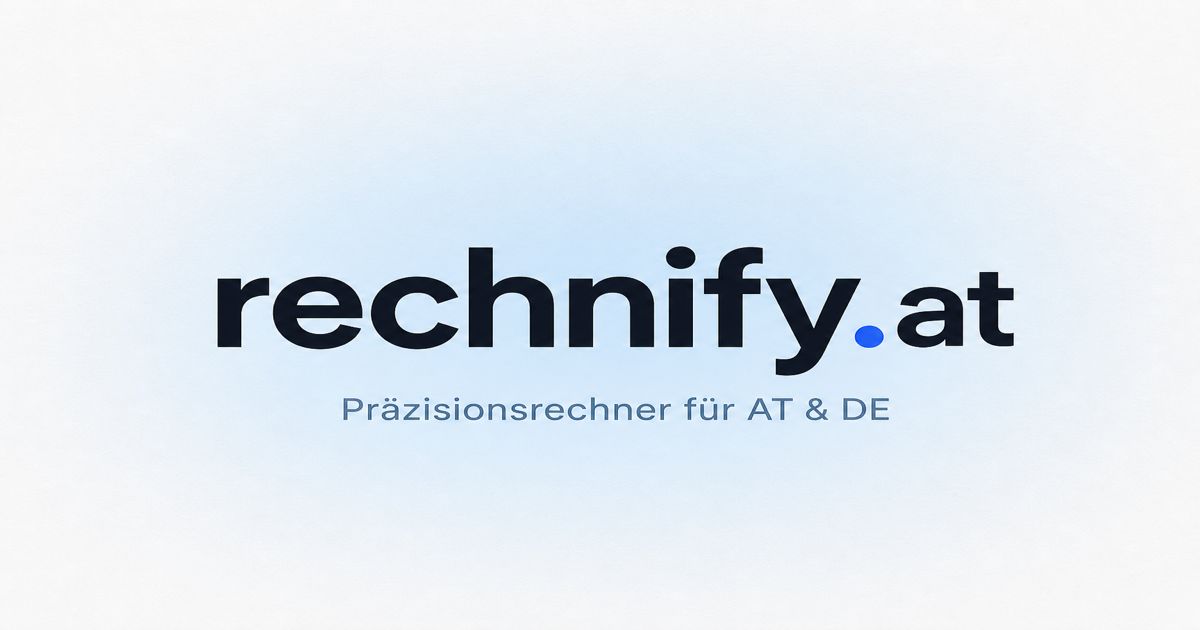
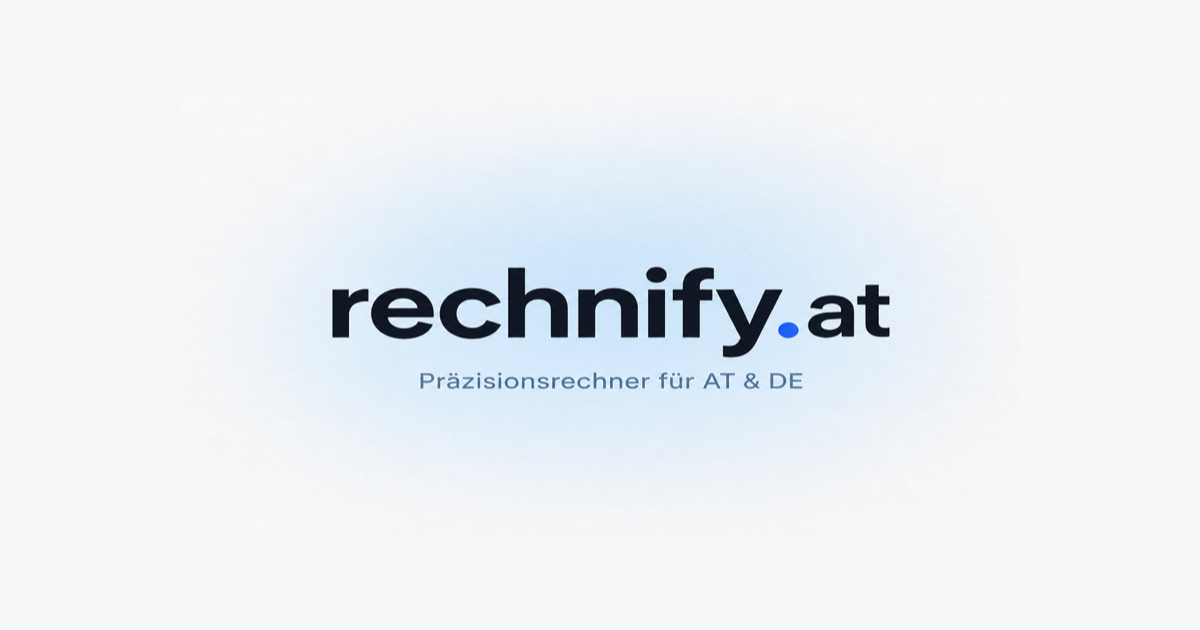
feat(seo): snippet batch 1 for higher CTR
- teilzeitrechner AT: title/description rewrite (+2026, concrete
  benefit), add WebApplication + BreadcrumbList JSON-LD (had none)
- mindestlohn 2026: title/description answer the intent (no statutory
  minimum wage, KV table by sector)
- ueberstunden-, urlaubstage-rechner: add 2026 to title
- fix template bug "für (Österreich)" / "für (Deutschland)" in 8 meta
  descriptions, de/index.html and create_leasingrechner.py
- og-share.png: logo fits a centered square crop (Google thumbnails
  showed "echnify.a"), file size 844 KB -> 419 KB

Ship at least one week after the redesign deploy so effects stay
attributable.

Claude-Session: https://claude.ai/code/session_01SohKhnQUQqr9dQDLnaXpvj

Changed region(s): [[0.1542, 0.3921, 0.8633, 0.6635]]

diff --git a/de/index.html b/de/index.html
@@ -73,14 +73,14 @@
       <h2>Finanzen & Steuern</h2>
       <p>Brutto-Netto, Kirchensteuer, Pendlerpauschale und weitere Steuerthemen für Deutschland.</p>
       <ul class="hub-list">
-        <li><a href="/de/finanzen/etf-sparplan-rechner.html">ETF Sparplan Rechner (Deutschland)</a> <span class="hub-list-desc">Kostenloser ETF Sparplan Rechner für (Deutschland).</span></li>
+        <li><a href="/de/finanzen/etf-sparplan-rechner.html">ETF Sparplan Rechner (Deutschland)</a> <span class="hub-list-desc">Kostenloser ETF Sparplan Rechner für Deutschland.</span></li>
         <li><a href="/de/finanzen/gehaltserhoehung-rechner.html">Gehaltserhöhung Rechner (DE)</a> <span class="hub-list-desc">Berechne kostenlos, wie viel Netto von deiner Gehaltserhöhung in Deutschland übrig bleibt.</span></li>
         <li><a href="/de/finanzen/gehaltsrechner.html">Brutto Netto Rechner Deutschland</a> <span class="hub-list-desc">Brutto-Netto-Rechner für Deutschland.</span></li>
         <li><a href="/de/finanzen/kirchensteuer-erklaert.html">Kirchensteuer in Deutschland</a> <span class="hub-list-desc">Kirchensteuer in Deutschland: 8 % oder 9 % je Bundesland.</span></li>
         <li><a href="/de/finanzen/kirchensteuer-rechner.html">Kirchensteuer Rechner (DE)</a> <span class="hub-list-desc">Berechne deine Kirchensteuer in Deutschland (Bayern, Baden-Württemberg oder restliche Bundesländer) einfach und schnell.</span></li>
-        <li><a href="/de/finanzen/kreditrechner.html">Kreditrechner (Deutschland)</a> <span class="hub-list-desc">Kostenloser Kreditrechner für (Deutschland).</span></li>
+        <li><a href="/de/finanzen/kreditrechner.html">Kreditrechner (Deutschland)</a> <span class="hub-list-desc">Kostenloser Kreditrechner für Deutschland.</span></li>
         <li><a href="/de/finanzen/kryptosteuerrechner.html">Krypto Steuerrechner Deutschland</a> <span class="hub-list-desc">Berechne die Steuern auf deine Krypto-Gewinne in Deutschland.</span></li>
-        <li><a href="/de/finanzen/leasingrechner.html">Leasingrechner (Deutschland)</a> <span class="hub-list-desc">Kostenloser Leasingrechner für (Deutschland).</span></li>
+        <li><a href="/de/finanzen/leasingrechner.html">Leasingrechner (Deutschland)</a> <span class="hub-list-desc">Kostenloser Leasingrechner für Deutschland.</span></li>
         <li><a href="/de/finanzen/mwst-rechner.html">Mehrwertsteuer-Rechner Deutschland</a> <span class="hub-list-desc">Kostenloser Mehrwertsteuer-Rechner für Deutschland.</span></li>
         <li><a href="/de/finanzen/netto-rechner-deutschland-2026.html">Netto-Rechner Deutschland 2026</a> <span class="hub-list-desc">Netto-Rechner für Deutschland 2026: Brutto zu Netto nach Steuerklasse, SV und Abzügen.</span></li>
         <li><a href="/de/finanzen/pendlerrechner.html">Pendlerpauschale Rechner Deutschland</a> <span class="hub-list-desc">Berechne deine Entfernungspauschale (Pendlerpauschale) für Deutschland nach den aktuellen Richtlinien für 2026.</span></li>
@@ -94,7 +94,7 @@
         <li><a href="/de/arbeitszeit/kommen-gehen-rechner.html">Arbeitszeitrechner Deutschland</a> <span class="hub-list-desc">Kostenloser Arbeitszeitrechner für Deutschland: Berechne deine tägliche Arbeitszeit, Pausen und Überstunden.</span></li>
         <li><a href="/de/arbeitszeit/kuendigungsfrist-rechner.html">Kündigungsfrist Rechner Deutschland</a> <span class="hub-list-desc">Gesetzliche Fristen nach BGB §622.</span></li>
         <li><a href="/de/arbeitszeit/stundenlohn-rechner.html">Stundenlohnrechner Deutschland</a> <span class="hub-list-desc">Berechne deinen Stundenlohn aus Monatsgehalt oder Jahresgehalt für Deutschland.</span></li>
-        <li><a href="/de/arbeitszeit/teilzeitrechner.html">Teilzeitrechner (Deutschland)</a> <span class="hub-list-desc">Kostenloser Teilzeitrechner für (Deutschland).</span></li>
+        <li><a href="/de/arbeitszeit/teilzeitrechner.html">Teilzeitrechner (Deutschland)</a> <span class="hub-list-desc">Kostenloser Teilzeitrechner für Deutschland.</span></li>
         <li><a href="/de/arbeitszeit/ueberstundenrechner.html">Überstundenrechner (Deutschland)</a> <span class="hub-list-desc">Kostenloser Überstundenrechner für Deutschland: Berechne schnell deine Auszahlung (brutto) inkl.</span></li>
         <li><a href="/de/arbeitszeit/urlaubstage-rechner.html">Urlaubstage Rechner (Deutschland)</a> <span class="hub-list-desc">Berechne deinen gesetzlichen Urlaubsanspruch in Deutschland (BUrlG).</span></li>
       </ul>

diff --git a/arbeitszeit/teilzeitrechner.html b/arbeitszeit/teilzeitrechner.html
@@ -3,13 +3,37 @@
 <head>
   <meta charset="UTF-8" />
   <meta name="viewport" content="width=device-width, initial-scale=1.0" />
-  <title>Teilzeitrechner (Österreich) – Gehalt bei Stundenreduzierung berechnen | rechnify.at</title>
-  <meta name="description" content="Kostenloser Teilzeitrechner für (Österreich). Finde heraus, wie viel Netto dir bleibt, wenn du deine Arbeitszeit (Stunden) reduzierst." />
+  <title>Teilzeitrechner Österreich 2026 – Netto bei weniger Stunden | rechnify.at</title>
+  <meta name="description" content="Wie viel Netto bleibt bei 30, 25 oder 20 Stunden? Rechnet Lohnsteuer &amp; SV 2026, optional mit Urlaubs- &amp; Weihnachtsgeld – sofort, gratis, ohne Anmeldung." />
   <link rel="canonical" href="https://rechnify.at/arbeitszeit/teilzeitrechner.html" />
   <meta name="robots" content="index, follow, max-image-preview:large, max-snippet:-1, max-video-preview:-1" />
   <link rel="alternate" hreflang="de-AT" href="https://rechnify.at/arbeitszeit/teilzeitrechner.html" />
   <link rel="alternate" hreflang="de-DE" href="https://rechnify.at/de/arbeitszeit/teilzeitrechner.html" />
   <link rel="alternate" hreflang="x-default" href="https://rechnify.at/arbeitszeit/teilzeitrechner.html" />
+  <script type="application/ld+json">
+  {
+    "@context": "https://schema.org",
+    "@type": "WebApplication",
+    "name": "Teilzeitrechner Österreich",
+    "description": "Berechnet das Nettogehalt bei reduzierter Wochenarbeitszeit nach österreichischer Lohnsteuer und Sozialversicherung 2026.",
+    "url": "https://rechnify.at/arbeitszeit/teilzeitrechner.html",
+    "applicationCategory": "BusinessApplication",
+    "operatingSystem": "Any",
+    "inLanguage": "de-AT",
+    "offers": { "@type": "Offer", "price": "0", "priceCurrency": "EUR" }
+  }
+  </script>
+  <script type="application/ld+json">
+  {
+    "@context": "https://schema.org",
+    "@type": "BreadcrumbList",
+    "itemListElement": [
+      { "@type": "ListItem", "position": 1, "name": "Home", "item": "https://rechnify.at/" },
+      { "@type": "ListItem", "position": 2, "name": "Arbeitszeit", "item": "https://rechnify.at/arbeitszeit/" },
+      { "@type": "ListItem", "position": 3, "name": "Teilzeitrechner", "item": "https://rechnify.at/arbeitszeit/teilzeitrechner.html" }
+    ]
+  }
+  </script>
 
   <meta property="og:type" content="website" />
   <meta property="og:title" content="Teilzeitrechner (Österreich) | rechnify.at" />

diff --git a/blog/mindestlohn-oesterreich-2026.html b/blog/mindestlohn-oesterreich-2026.html
@@ -4,9 +4,9 @@
 <head>
   <meta charset="UTF-8" />
   <meta name="viewport" content="width=device-width, initial-scale=1.0" />
-  <title>Mindestlohn Österreich 2026 – Alle Kollektivverträge & Branchen | rechnify.at</title>
+  <title>Mindestlohn Österreich 2026: KV-Löhne je Branche (Tabelle) | rechnify.at</title>
   <meta name="description"
-    content="Mindestlohn in Österreich 2026: Aktuelle Kollektivverträge, Mindestgehälter nach Branchen, gesetzliche Grundlagen und Ihre Rechte als Arbeitnehmer." />
+    content="Österreich hat keinen gesetzlichen Mindestlohn – es gilt der Kollektivvertrag. Alle KV-Mindestlöhne 2026 nach Branche in einer Tabelle, mit Netto-Rechner." />
   <link rel="canonical" href="https://rechnify.at/blog/mindestlohn-oesterreich-2026.html" />
   <meta name="robots" content="index, follow, max-image-preview:large, max-snippet:-1, max-video-preview:-1" />
   <link rel="alternate" hreflang="de-AT" href="https://rechnify.at/blog/mindestlohn-oesterreich-2026.html" />

diff --git a/de/arbeitszeit/teilzeitrechner.html b/de/arbeitszeit/teilzeitrechner.html
@@ -4,7 +4,7 @@
   <meta charset="UTF-8" />
   <meta name="viewport" content="width=device-width, initial-scale=1.0" />
   <title>Teilzeitrechner (Deutschland) – Gehalt bei Stundenreduzierung berechnen | rechnify.at</title>
-  <meta name="description" content="Kostenloser Teilzeitrechner für (Deutschland). Finde heraus, wie viel Netto dir bleibt, wenn du deine Arbeitszeit (Stunden) reduzierst." />
+  <meta name="description" content="Kostenloser Teilzeitrechner für Deutschland. Finde heraus, wie viel Netto dir bleibt, wenn du deine Arbeitszeit (Stunden) reduzierst." />
   <link rel="canonical" href="https://rechnify.at/de/arbeitszeit/teilzeitrechner.html" />
   <meta name="robots" content="index, follow, max-image-preview:large, max-snippet:-1, max-video-preview:-1" />
   <link rel="alternate" hreflang="de-AT" href="https://rechnify.at/arbeitszeit/teilzeitrechner.html" />

diff --git a/de/finanzen/etf-sparplan-rechner.html b/de/finanzen/etf-sparplan-rechner.html
@@ -4,7 +4,7 @@
   <meta charset="UTF-8" />
   <meta name="viewport" content="width=device-width, initial-scale=1.0" />
   <title>ETF Sparplan Rechner – Zinseszins & Vermögensaufbau Deutschland | rechnify.at</title>
-  <meta name="description" content="Kostenloser ETF Sparplan Rechner für (Deutschland). Berechne Zinseszins, Endkapital und visualisiere deinen Vermögensaufbau mit Chart." />
+  <meta name="description" content="Kostenloser ETF Sparplan Rechner für Deutschland. Berechne Zinseszins, Endkapital und visualisiere deinen Vermögensaufbau mit Chart." />
   <link rel="canonical" href="https://rechnify.at/de/finanzen/etf-sparplan-rechner.html" />
   <meta name="robots" content="index, follow, max-image-preview:large, max-snippet:-1, max-video-preview:-1" />
   <link rel="alternate" hreflang="de-AT" href="https://rechnify.at/finanzen/etf-sparplan-rechner.html" />

diff --git a/finanzen/etf-sparplan-rechner.html b/finanzen/etf-sparplan-rechner.html
@@ -4,7 +4,7 @@
   <meta charset="UTF-8" />
   <meta name="viewport" content="width=device-width, initial-scale=1.0" />
   <title>ETF Sparplan Rechner – Zinseszins & Vermögensaufbau Österreich | rechnify.at</title>
-  <meta name="description" content="Kostenloser ETF Sparplan Rechner für (Österreich). Berechne Zinseszins, Endkapital und visualisiere deinen Vermögensaufbau mit Chart." />
+  <meta name="description" content="Kostenloser ETF Sparplan Rechner für Österreich. Berechne Zinseszins, Endkapital und visualisiere deinen Vermögensaufbau mit Chart." />
   <link rel="canonical" href="https://rechnify.at/finanzen/etf-sparplan-rechner.html" />
   <meta name="robots" content="index, follow, max-image-preview:large, max-snippet:-1, max-video-preview:-1" />
   <link rel="alternate" hreflang="de-AT" href="https://rechnify.at/finanzen/etf-sparplan-rechner.html" />

diff --git a/de/finanzen/leasingrechner.html b/de/finanzen/leasingrechner.html
@@ -4,7 +4,7 @@
   <meta charset="UTF-8" />
   <meta name="viewport" content="width=device-width, initial-scale=1.0" />
   <title>Leasingrechner online – Leasingrate berechnen Deutschland | rechnify.at</title>
-  <meta name="description" content="Kostenloser Leasingrechner für (Deutschland). Berechne deine monatliche Leasingrate, Gesamtkosten und Zinsen für dein neues Auto." />
+  <meta name="description" content="Kostenloser Leasingrechner für Deutschland. Berechne deine monatliche Leasingrate, Gesamtkosten und Zinsen für dein neues Auto." />
   <link rel="canonical" href="https://rechnify.at/de/finanzen/leasingrechner.html" />
   <meta name="robots" content="index, follow, max-image-preview:large, max-snippet:-1, max-video-preview:-1" />
   <link rel="alternate" hreflang="de-AT" href="https://rechnify.at/finanzen/leasingrechner.html" />

diff --git a/finanzen/leasingrechner.html b/finanzen/leasingrechner.html
@@ -4,7 +4,7 @@
   <meta charset="UTF-8" />
   <meta name="viewport" content="width=device-width, initial-scale=1.0" />
   <title>Leasingrechner online – Leasingrate berechnen Österreich | rechnify.at</title>
-  <meta name="description" content="Kostenloser Leasingrechner für (Österreich). Berechne deine monatliche Leasingrate, Gesamtkosten und Zinsen für dein neues Auto." />
+  <meta name="description" content="Kostenloser Leasingrechner für Österreich. Berechne deine monatliche Leasingrate, Gesamtkosten und Zinsen für dein neues Auto." />
   <link rel="canonical" href="https://rechnify.at/finanzen/leasingrechner.html" />
   <meta name="robots" content="index, follow, max-image-preview:large, max-snippet:-1, max-video-preview:-1" />
   <link rel="alternate" hreflang="de-AT" href="https://rechnify.at/finanzen/leasingrechner.html" />

diff --git a/de/finanzen/kreditrechner.html b/de/finanzen/kreditrechner.html
@@ -4,7 +4,7 @@
   <meta charset="UTF-8" />
   <meta name="viewport" content="width=device-width, initial-scale=1.0" />
   <title>Kreditrechner (Deutschland) – Monatliche Rate berechnen | rechnify.at</title>
-  <meta name="description" content="Kostenloser Kreditrechner für (Deutschland). Berechne monatliche Rate, Zinskosten und Gesamtbelastung deines Annuitätendarlehens." />
+  <meta name="description" content="Kostenloser Kreditrechner für Deutschland. Berechne monatliche Rate, Zinskosten und Gesamtbelastung deines Annuitätendarlehens." />
   <link rel="canonical" href="https://rechnify.at/de/finanzen/kreditrechner.html" />
   <meta name="robots" content="index, follow, max-image-preview:large, max-snippet:-1, max-video-preview:-1" />
   <link rel="alternate" hreflang="de-AT" href="https://rechnify.at/finanzen/kreditrechner.html" />

diff --git a/finanzen/kreditrechner.html b/finanzen/kreditrechner.html
@@ -4,7 +4,7 @@
   <meta charset="UTF-8" />
   <meta name="viewport" content="width=device-width, initial-scale=1.0" />
   <title>Kreditrechner (Österreich) – Monatliche Rate berechnen | rechnify.at</title>
-  <meta name="description" content="Kostenloser Kreditrechner für (Österreich). Berechne monatliche Rate, Zinskosten und Gesamtbelastung deines Annuitätendarlehens." />
+  <meta name="description" content="Kostenloser Kreditrechner für Österreich. Berechne monatliche Rate, Zinskosten und Gesamtbelastung deines Annuitätendarlehens." />
   <link rel="canonical" href="https://rechnify.at/finanzen/kreditrechner.html" />
   <meta name="robots" content="index, follow, max-image-preview:large, max-snippet:-1, max-video-preview:-1" />
   <link rel="alternate" hreflang="de-AT" href="https://rechnify.at/finanzen/kreditrechner.html" />

diff --git a/arbeitszeit/ueberstundenrechner.html b/arbeitszeit/ueberstundenrechner.html
@@ -3,7 +3,7 @@
 <head>
   <meta charset="UTF-8" />
   <meta name="viewport" content="width=device-width, initial-scale=1.0" />
-  <title>Überstundenrechner Österreich – Auszahlung & Zeitausgleich | rechnify.at</title>
+  <title>Überstundenrechner Österreich 2026 – Auszahlung & Zeitausgleich | rechnify.at</title>
   <meta name="description" content="Kostenloser Überstundenrechner für Österreich: Berechne schnell deine Auszahlung (brutto) inkl. 50% oder 100% Zuschlag oder deinen Anspruch auf Zeitausgleich." />
   <link rel="canonical" href="https://rechnify.at/arbeitszeit/ueberstundenrechner.html" />
   <meta name="robots" content="index, follow, max-image-preview:large, max-snippet:-1, max-video-preview:-1" />

diff --git a/arbeitszeit/urlaubstage-rechner.html b/arbeitszeit/urlaubstage-rechner.html
@@ -3,7 +3,7 @@
 <head>
   <meta charset="UTF-8" />
   <meta name="viewport" content="width=device-width, initial-scale=1.0" />
-  <title>Urlaubstage Rechner Österreich – Anspruch berechnen | rechnify.at</title>
+  <title>Urlaubstage Rechner Österreich 2026 – Anspruch berechnen | rechnify.at</title>
   <meta name="description" content="Berechne deinen gesetzlichen Urlaubsanspruch in Österreich. Egal ob 5-Tage-Woche, Teilzeit, Aliquotierung oder 6. Urlaubswoche." />
   <link rel="canonical" href="https://rechnify.at/arbeitszeit/urlaubstage-rechner.html" />
   <meta name="robots" content="index, follow, max-image-preview:large, max-snippet:-1, max-video-preview:-1" />
